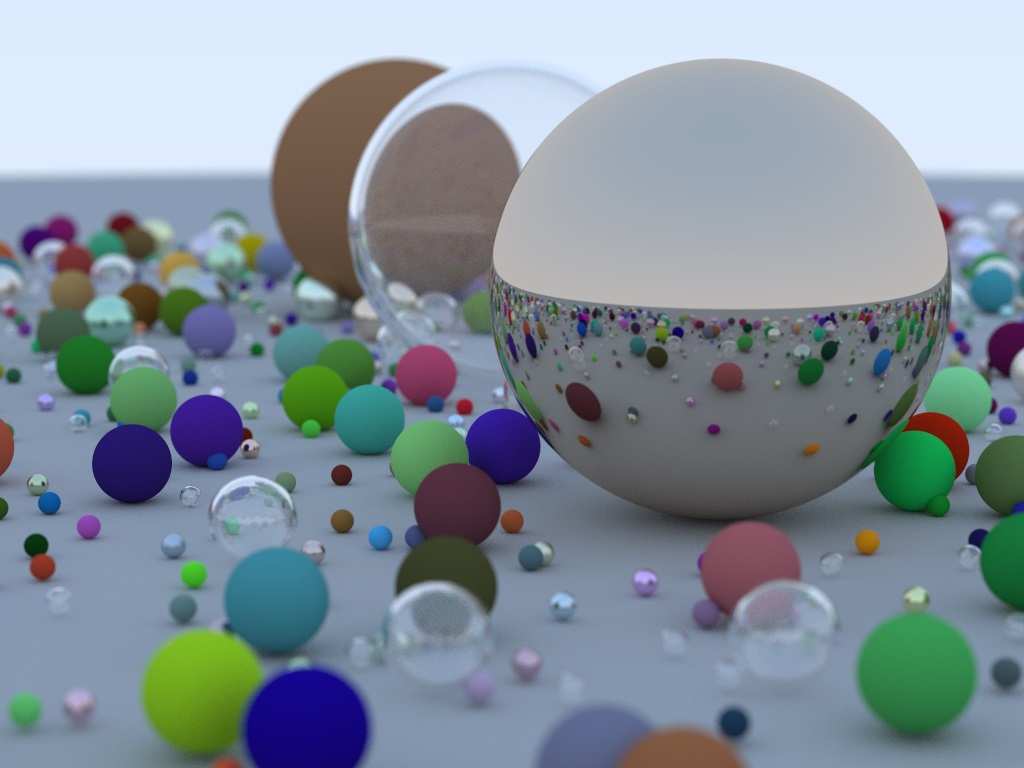
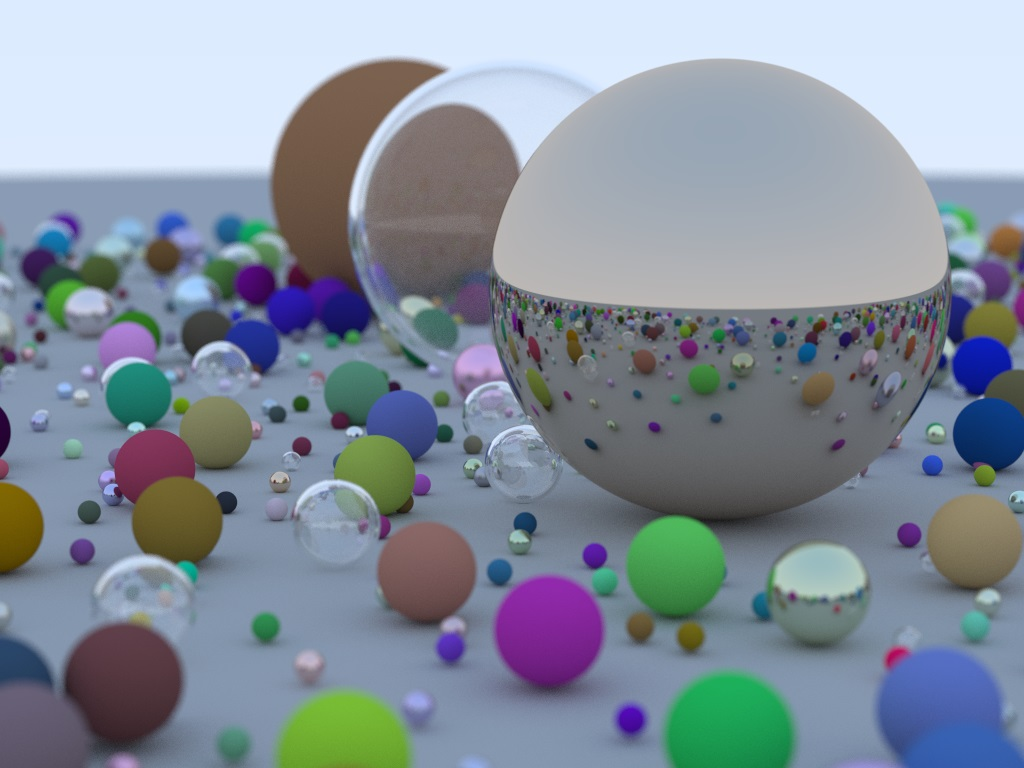
calc more_details.jpg one more time

diff --git a/src/main.rs b/src/main.rs
@@ -26,9 +26,9 @@ fn random_gen(
         for b in -range..range {
             let choose_mat = rand_range(0, total_weight);
             let center = Vec3::new(
-                step * (a as f64 + (1.0 - radius) * random()),
+                step * a as f64 + (step - radius) * random(),
                 radius - 0.01,
-                step * (b as f64 + (1.0 - radius) * random()),
+                step * b as f64 + (step - radius) * random(),
             );
 
             if (center - Vec3::new(4, radius, 0)).length() <= 0.9 {
